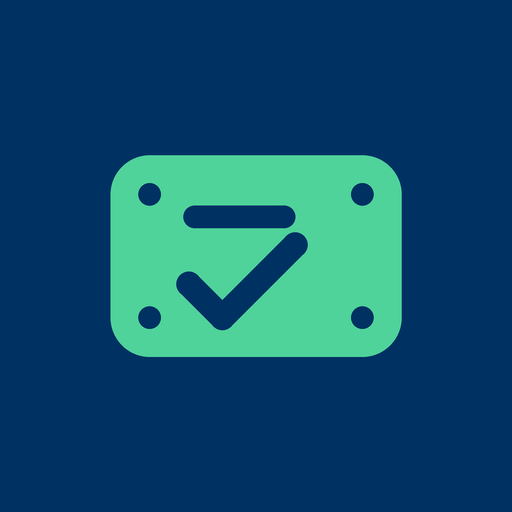
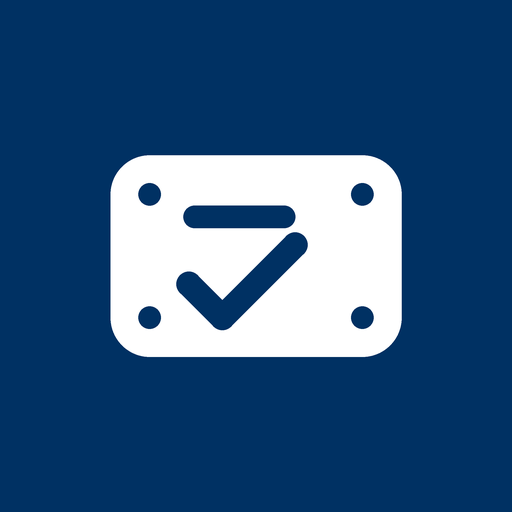
Add files via upload

Changed region(s): [[0.1875, 0.2812, 0.8125, 0.7188]]

diff --git a/index.html b/index.html
@@ -4,12 +4,12 @@
 <meta charset="utf-8">
 <meta name="viewport" content="width=device-width,initial-scale=1">
 <meta name="theme-color" content="#003163">
+<meta name="color-scheme" content="light">
 <link rel="manifest" href="manifest.webmanifest">
 <link rel="icon" href="icon-192.png">
 <title>Nameplate Tracker</title>
 <style>
-:root{--bg:#F2F5F8;--card:#fff;--ink:#0F1E2E;--mute:#55657A;--line:#E1E6EC;--line2:#C6CFD9;--head:#003163;--head2:#0B4A8A;--ok:#12804F;--okbg:#DFF3E8;--oktx:#0C5C38;--warn:#B37A00;--warnbg:#FFF0CC;--warntx:#6B4700;--bad:#B3361B;--badbg:#FDE4DE;--badtx:#8F2A14;--idle:#EEF1F4;--idletx:#46566A}
-@media (prefers-color-scheme:dark){:root{--bg:#0B141D;--card:#142230;--ink:#E8EEF4;--mute:#9DB0C3;--line:#243648;--line2:#35495E;--head:#003163;--head2:#0B4A8A;--okbg:#0F3D29;--oktx:#8FE0B8;--warnbg:#4A3500;--warntx:#FFD98A;--badbg:#4F1A0E;--badtx:#FFB9A8;--idle:#1E2E3E;--idletx:#B7C6D5}}
+:root{color-scheme:light;--bg:#F5F8FC;--card:#fff;--ink:#0B1F33;--mute:#55657A;--line:#E2E8F0;--line2:#C5D0DC;--head:#003163;--head2:#0B4A8A;--ok:#12804F;--okbg:#DFF3E8;--oktx:#0C5C38;--warn:#B37A00;--warnbg:#FFF0CC;--warntx:#6B4700;--bad:#B3361B;--badbg:#FDE4DE;--badtx:#8F2A14;--idle:#EEF1F4;--idletx:#46566A}
 *{box-sizing:border-box}
 body{margin:0;background:var(--bg);color:var(--ink);font:15px/1.4 Inter,system-ui,-apple-system,"Segoe UI",Roboto,sans-serif}
 header{position:sticky;top:0;z-index:5;background:var(--head);color:#fff;display:flex;align-items:center;gap:10px;padding:12px 14px}
@@ -21,10 +21,10 @@ header small{display:block;font-size:11px;letter-spacing:.12em;color:#A9C4DE;fon
 main{max-width:860px;margin:0 auto;padding:14px}
 .ov{background:var(--head);color:#fff;border-radius:14px;padding:14px 16px;margin-bottom:14px}
 .ov .r{display:flex;justify-content:space-between;align-items:baseline}.ov .r b{font-size:18px}
-.ov .bar{background:var(--head2);height:8px;margin:10px 0}.ov .bar i{background:#4FD39A}
+.ov .bar{background:var(--head2);height:8px;margin:10px 0}.ov .bar i{background:#fff}
 .ov .m{display:flex;gap:14px;flex-wrap:wrap;font-size:12px;color:#C9DAEA}
 .grid{display:grid;grid-template-columns:repeat(auto-fill,minmax(150px,1fr));gap:12px}
-.card{background:var(--card);border:1px solid var(--line);border-radius:14px;padding:14px;text-align:left;color:inherit;font:inherit;cursor:pointer;display:flex;flex-direction:column;gap:8px;min-height:104px}
+.card{background:var(--card);border:1px solid var(--line);box-shadow:0 2px 8px rgba(0,49,99,.06);border-radius:14px;padding:14px;text-align:left;color:inherit;font:inherit;cursor:pointer;display:flex;flex-direction:column;gap:8px;min-height:104px}
 .card .h{display:flex;justify-content:space-between;align-items:center;gap:6px}.card b{font-size:18px}.card span.c{color:var(--mute);font-size:13px}
 .card.add{border:2px dashed var(--line2);background:transparent;align-items:center;justify-content:center;font-weight:600;color:var(--mute);text-align:center}
 .tag{font-size:11px;font-weight:600;padding:3px 8px;border-radius:99px;white-space:nowrap;background:var(--idle);color:var(--idletx)}
@@ -32,7 +32,7 @@ main{max-width:860px;margin:0 auto;padding:14px}
 .bar{height:6px;background:var(--line);border-radius:3px;overflow:hidden}.bar i{display:block;height:100%;background:var(--ok)}
 .tools{display:flex;gap:8px;flex-wrap:wrap;margin:0 0 12px}
 .btn{display:inline-flex;align-items:center;justify-content:center;gap:6px;min-height:46px;background:var(--head);color:#fff;border:0;border-radius:12px;padding:10px 16px;font:inherit;font-weight:600;cursor:pointer;text-decoration:none}
-.btn.go{background:var(--ok)}
+.btn.go{background:var(--head);box-shadow:0 6px 16px rgba(0,49,99,.25)}
 .btn.ghost{background:var(--card);color:var(--ink);border:1px solid var(--line2)}
 input[type=text],input[type=search],input[type=number],textarea{width:100%;min-height:46px;padding:10px 14px;border:1px solid var(--line2);border-radius:12px;background:var(--card);color:var(--ink);font:inherit}
 #f_serial{font-family:ui-monospace,Menlo,Consolas,monospace;font-size:18px;border:2px solid var(--head)}
@@ -73,21 +73,44 @@ header .logo{width:34px;height:34px;flex:none}
 #splash .logo{animation:pop .7s cubic-bezier(.2,.8,.2,1) both}
 #splash b{animation:up .5s .35s both}#splash span{animation:up .5s .5s both}
 #splash i{width:120px;height:3px;border-radius:2px;background:rgba(255,255,255,.18);overflow:hidden;margin-top:14px;animation:up .4s .6s both}
-#splash i::after{content:"";display:block;width:40%;height:100%;background:#4FD39A;border-radius:2px;animation:load 1.1s .6s ease-in-out infinite}
+#splash i::after{content:"";display:block;width:40%;height:100%;background:#fff;border-radius:2px;animation:load 1.1s .6s ease-in-out infinite}
 main>*{animation:up .35s both}
 .grid .card{animation:up .35s both}
 .hero .mark{animation:pop .6s cubic-bezier(.2,.8,.2,1) both}
 .btn,.card,.row,.chip{transition:transform .12s,background-color .15s}
 .btn:active,.card:active,.row:active,.chip:active{transform:scale(.97)}
 .bar i{transition:width .6s ease}
+@keyframes spin{to{transform:rotate(360deg)}}
+@keyframes grow{from{transform:scaleX(0)}}
+@keyframes pulse{50%{opacity:.55}}
+@keyframes draw{to{stroke-dashoffset:0}}
+@keyframes fade{0%{opacity:0}15%,75%{opacity:1}100%{opacity:0}}
+.bar i{transform-origin:left;animation:grow .8s ease both}
+.row{animation:up .3s both}
+#pill.sync{animation:pulse 1.2s ease-in-out infinite}
+body.lock header{display:none}
+body.lock main{max-width:none;padding:0}
+.lock-top{background:var(--head);color:#fff;min-height:46vh;display:flex;flex-direction:column;align-items:center;justify-content:center;gap:10px;padding:32px 20px 78px;position:relative;overflow:hidden}
+.lock-top .logo{width:96px;height:96px;animation:pop .7s cubic-bezier(.2,.8,.2,1) both;position:relative;z-index:1}
+.lock-top h2{margin:0;font-size:28px;color:#fff;animation:up .5s .2s both;position:relative;z-index:1}
+.lock-top .tl{font-size:12px;letter-spacing:.16em;color:#B9CDE3;animation:up .5s .3s both;position:relative;z-index:1}
+.lock-top::before,.lock-top::after{content:"";position:absolute;border-radius:50%;border:1.5px dashed rgba(255,255,255,.16);width:520px;height:520px;top:-260px;right:-210px;animation:spin 40s linear infinite}
+.lock-top::after{top:auto;right:auto;bottom:-340px;left:-230px;width:640px;height:640px;animation-duration:60s;animation-direction:reverse}
+.lock-card{max-width:420px;margin:-52px auto 0;background:#fff;border:1px solid var(--line);border-radius:18px;padding:26px 22px;text-align:center;position:relative;box-shadow:0 14px 34px rgba(0,49,99,.16);animation:up .5s .25s both;width:calc(100% - 32px)}
+.lock-card h3{margin:0 0 6px;font-size:18px}
+.lock-card p{color:var(--mute);margin:0 0 18px}.lock-card .btn{width:100%}.lock-card small{display:block;color:var(--mute);margin-top:14px;font-size:12px}
+.lock-foot{text-align:center;color:var(--mute);font-size:12px;margin:20px 16px;animation:up .5s .4s both}
+#done{position:fixed;inset:0;z-index:15;background:rgba(255,255,255,.94);display:flex;flex-direction:column;align-items:center;justify-content:center;gap:12px;color:var(--head);font-weight:700;font-size:18px;animation:fade 1s both;pointer-events:none}
+#done svg{width:96px;height:96px;animation:pop .45s both}
+#done path{fill:none;stroke:#fff;stroke-width:6;stroke-linecap:round;stroke-linejoin:round;stroke-dasharray:60;stroke-dashoffset:60;animation:draw .4s .2s forwards}
 @media (prefers-reduced-motion:reduce){*{animation:none!important;transition:none!important}}
 #toast{position:fixed;left:50%;bottom:20px;transform:translateX(-50%);background:#111;color:#fff;padding:10px 16px;border-radius:10px;font-size:14px;opacity:0;pointer-events:none;transition:opacity .2s;max-width:90vw;z-index:9}
 #toast.on{opacity:.96}
 </style>
 </head>
 <body>
-<div id="splash"><svg class="logo" viewBox="0 0 64 64" aria-hidden="true"><rect x="6" y="14" width="52" height="36" rx="7" fill="#4FD39A"/><circle cx="13" cy="21" r="2" fill="#003163"/><circle cx="51" cy="21" r="2" fill="#003163"/><circle cx="13" cy="43" r="2" fill="#003163"/><circle cx="51" cy="43" r="2" fill="#003163"/><rect x="19" y="23" width="20" height="4" rx="2" fill="#003163"/><path d="M20 37l6 6 13-13" fill="none" stroke="#003163" stroke-width="4.5" stroke-linecap="round" stroke-linejoin="round"/></svg><b>Nameplate Tracker</b><span>TURBINE COMPONENT RECORDS</span><i></i></div>
-<header><button id="back" data-act="back" aria-label="Back">&#8249;</button><svg class="logo" viewBox="0 0 64 64" aria-hidden="true"><rect x="6" y="14" width="52" height="36" rx="7" fill="#4FD39A"/><circle cx="13" cy="21" r="2" fill="#003163"/><circle cx="51" cy="21" r="2" fill="#003163"/><circle cx="13" cy="43" r="2" fill="#003163"/><circle cx="51" cy="43" r="2" fill="#003163"/><rect x="19" y="23" width="20" height="4" rx="2" fill="#003163"/><path d="M20 37l6 6 13-13" fill="none" stroke="#003163" stroke-width="4.5" stroke-linecap="round" stroke-linejoin="round"/></svg><h1 id="title">Nameplate Tracker</h1><button id="pill" data-act="sync">…</button></header>
+<div id="splash"><svg class="logo" viewBox="0 0 64 64" aria-hidden="true"><rect x="6" y="14" width="52" height="36" rx="7" fill="#FFFFFF"/><circle cx="13" cy="21" r="2" fill="#003163"/><circle cx="51" cy="21" r="2" fill="#003163"/><circle cx="13" cy="43" r="2" fill="#003163"/><circle cx="51" cy="43" r="2" fill="#003163"/><rect x="19" y="23" width="20" height="4" rx="2" fill="#003163"/><path d="M20 37l6 6 13-13" fill="none" stroke="#003163" stroke-width="4.5" stroke-linecap="round" stroke-linejoin="round"/></svg><b>Nameplate Tracker</b><span>TURBINE COMPONENT RECORDS</span><i></i></div>
+<header><button id="back" data-act="back" aria-label="Back">&#8249;</button><svg class="logo" viewBox="0 0 64 64" aria-hidden="true"><rect x="6" y="14" width="52" height="36" rx="7" fill="#FFFFFF"/><circle cx="13" cy="21" r="2" fill="#003163"/><circle cx="51" cy="21" r="2" fill="#003163"/><circle cx="13" cy="43" r="2" fill="#003163"/><circle cx="51" cy="43" r="2" fill="#003163"/><rect x="19" y="23" width="20" height="4" rx="2" fill="#003163"/><path d="M20 37l6 6 13-13" fill="none" stroke="#003163" stroke-width="4.5" stroke-linecap="round" stroke-linejoin="round"/></svg><h1 id="title">Nameplate Tracker</h1><button id="pill" data-act="sync">…</button></header>
 <main id="app"></main>
 <div id="toast"></div>
 <script>
@@ -105,43 +128,124 @@ const ls=k=>{try{return JSON.parse(localStorage.getItem(k));}catch(e){return nul
 const lsSet=(k,v)=>{try{localStorage.setItem(k,JSON.stringify(v));}catch(e){}};
 
 let L=ls('np_local')||{clientId:'',folderId:'',email:'',name:''};   // this phone's connection + signed-in user
-let T=ls('np_tok');                                                  // Google access token
+let T=null;lsSet('np_tok',null);                                     // Google access token: kept in memory only, so every app open asks for sign-in
 let CFG=null;                                                        // project config (copy of the sheet's Config tab)
 let RECS={},ROWS={};                                                 // records + sheet row numbers, per WTG
 let Q=[];                                                            // saves not yet synced
 const S={view:{name:'home'},filter:'all',q:'',err:'',syncing:false,last:0,working:'',addArm:false,pos:null,entered:false};
 let F=null;const thumbCache=new Map();
-const LOGO='<svg class="logo" viewBox="0 0 64 64" aria-hidden="true"><rect x="6" y="14" width="52" height="36" rx="7" fill="#4FD39A"/><circle cx="13" cy="21" r="2" fill="#003163"/><circle cx="51" cy="21" r="2" fill="#003163"/><circle cx="13" cy="43" r="2" fill="#003163"/><circle cx="51" cy="43" r="2" fill="#003163"/><rect x="19" y="23" width="20" height="4" rx="2" fill="#003163"/><path d="M20 37l6 6 13-13" fill="none" stroke="#003163" stroke-width="4.5" stroke-linecap="round" stroke-linejoin="round"/></svg>';
+const LOGO='<svg class="logo" viewBox="0 0 64 64" aria-hidden="true"><rect x="6" y="14" width="52" height="36" rx="7" fill="#FFFFFF"/><circle cx="13" cy="21" r="2" fill="#003163"/><circle cx="51" cy="21" r="2" fill="#003163"/><circle cx="13" cy="43" r="2" fill="#003163"/><circle cx="51" cy="43" r="2" fill="#003163"/><rect x="19" y="23" width="20" height="4" rx="2" fill="#003163"/><path d="M20 37l6 6 13-13" fill="none" stroke="#003163" stroke-width="4.5" stroke-linecap="round" stroke-linejoin="round"/></svg>';
 const hero=(title,tag,body)=>'<div class="hero"><div class="mark">'+LOGO+'</div><h2>'+title+'</h2><div class="tl">'+tag+'</div>'+body+'</div>';
 
-const SAMPLE=`Tower | Tower section 1
-Tower | Tower section 2
-Tower | Tower section 3
-Tower | Service lift
-Nacelle | Generator | 2
-Nacelle | Main bearing
-Nacelle | Yaw drive 1
-Nacelle | Yaw drive 2
-Nacelle | Yaw drive 3
-Nacelle | Yaw bearing
-Nacelle | Hydraulic station
+const SAMPLE=`Nacelle | Nacelle Nameplate
 Nacelle | Nacelle control cabinet
-Hub | Hub casting
-Hub | Pitch motor 1
-Hub | Pitch motor 2
-Hub | Pitch motor 3
-Hub | Pitch bearing 1
-Hub | Pitch bearing 2
-Hub | Pitch bearing 3
-Hub | Pitch control cabinet
-Blades | Blade A | 2
-Blades | Blade B | 2
-Blades | Blade C | 2
-Electrical | Converter cabinet
-Electrical | Transformer | 2
-Electrical | Main control cabinet
-Electrical | Switchgear
-Electrical | UPS`;
+Nacelle | Nacelle control cabinet PLC
+Nacelle | Nacelle distribution cabinet
+Nacelle | Nacelle Junction box 1
+Nacelle | Nacelle Junction box 2
+Nacelle | Wind Vane
+Nacelle | Anemometer
+Nacelle | Aviation light 1
+Nacelle | Aviation light 2
+Nacelle | Cam counter
+Nacelle | Central Monitoring System - CMS
+Nacelle | Chain Hoist
+Nacelle | LiDAR Nameplate
+Nacelle | Yaw bearing lubrication pump
+Nacelle | Yaw Caliper 1
+Nacelle | Yaw Caliper 2
+Nacelle | Yaw Caliper 3
+Nacelle | Yaw Caliper 4
+Nacelle | Yaw Caliper 5
+Nacelle | Yaw Caliper 6
+Nacelle | Yaw Caliper 7
+Nacelle | Yaw Caliper 8
+Nacelle | Yaw Caliper 9
+Nacelle | Yaw Caliper 10
+Nacelle | Yaw Caliper 11
+Nacelle | Yaw Caliper 12
+Nacelle | Yaw Caliper 13
+Nacelle | Yaw Caliper 14
+Nacelle | Yaw Bearing
+Nacelle | Yaw Collector Ring
+Nacelle | Yaw Motor - Left 1
+Nacelle | Yaw Motor - Left 2
+Nacelle | Yaw Motor - Left 3
+Nacelle | Yaw Motor - Left 4
+Nacelle | Yaw Motor - Right 1
+Nacelle | Yaw Motor - Right 2
+Nacelle | Yaw Motor - Right 3
+Nacelle | Yaw Motor - Right 4
+Nacelle | Tower Clearance Device
+Drivetrain | Stator
+Drivetrain | Drive Train Nameplate
+Drivetrain | Gearbox Nameplate
+Drivetrain | Gearbox air radiator 1
+Drivetrain | Gearbox air radiator 2
+Drivetrain | Gearbox air radiator fan 1
+Drivetrain | Gearbox air radiator fan 2
+Drivetrain | Gearbox oil circulation pump 1
+Drivetrain | Gearbox oil circulation pump 2
+Drivetrain | Generator Nameplate
+Drivetrain | Generator Stator Nameplate
+Drivetrain | Hydraulic Rotor lock 1
+Drivetrain | Hydraulic Rotor lock 2
+Drivetrain | Hydraulic Station
+Drivetrain | Main bearing grease lubrication pump
+Tower | Tower Section (S1)
+Tower | Tower Section (S2)
+Tower | Tower Section (S3)
+Tower | Tower Section (S4)
+Tower | Tower Section (S5)
+Tower | Dehumidifier
+Tower | Fire Module Subsystem
+Tower | Isolation Transformer
+Tower | Lights UPS
+Tower | Wind Turbine Nameplate
+Hub | Pitch 1 Control Cabinet
+Hub | Pitch 2 Control Cabinet
+Hub | Pitch 3 Control Cabinet
+Hub | Pitch 1 Motor
+Hub | Pitch 2 Motor
+Hub | Pitch 3 Motor
+Hub | Pitch Bearing 1
+Hub | Pitch Bearing 2
+Hub | Pitch Bearing 3
+Hub | Pitch Control Slipring
+Hub | Pitch Lubrication system (Bearings)
+Hub | Pitch Lubrication system (Gears)
+Hub | Rotor
+Hub | Pitch Reducer-01
+Hub | Pitch Reducer-02
+Hub | Pitch Reducer-03
+Blade | Blade 1
+Blade | Blade 2
+Blade | Blade 3
+Service Lift | Elevator safe lock
+Service Lift | Service Lift
+Service Lift | Service Lift Motor
+Service Lift | Service Lift Suspension Beam
+Converter system | Air radiator 1
+Converter system | Air radiator 2
+Converter system | Air radiator fans 1
+Converter system | Air radiator fans 2
+Converter system | Air radiator fans 3
+Converter system | Air radiator fans 4
+Converter system | Air radiator fans 5
+Converter system | Air radiator fans 6
+Converter system | Converter Cabinet
+Converter system | Converter Cooling Unit
+Converter system | Coolant Pump
+Converter system | Resistance Box 1
+Converter system | Resistance box 2
+Main control | Main Control Cabinet Nameplate
+Main control | Main Control Cabinet PLC
+GSU | GSU HV side
+GSU | GSU LV side
+GSU | GSU Relay
+GSU | RMU-01
+GSU | RMU-02
+GSU | RMU-03`;
 
 function toast(m,ms=2800){const t=$('#toast');t.textContent=m;t.classList.add('on');clearTimeout(toast.t);toast.t=setTimeout(()=>t.classList.remove('on'),ms);}
 
@@ -184,13 +288,13 @@ const tokenOk=()=>!!(T&&T.token&&T.exp>Date.now());
 function loadScript(src){return new Promise((res,rej)=>{const s=document.createElement('script');s.src=src;s.onload=()=>res();s.onerror=()=>{s.remove();rej(new Error('load'));};document.head.appendChild(s);});}
 async function loadGis(){if(window.google&&google.accounts&&google.accounts.oauth2)return;try{await loadScript('https://accounts.google.com/gsi/client');}catch(e){throw new Error('Google sign-in could not load. Check the internet connection.');}}
 async function loadXlsx(){if(window.XLSX)return;try{await loadScript(XLSX_URL);}catch(e){throw new Error('The Excel tool is not on this phone yet. Open the app once with internet.');}}
-async function requestToken(){
+async function requestToken(prompt){
   await loadGis();
   return new Promise((res,rej)=>{
     const tc=google.accounts.oauth2.initTokenClient({client_id:L.clientId,scope:SCOPE,login_hint:L.email||undefined,
-      callback:r=>{if(r.error){rej(new Error('Sign-in failed: '+r.error));return;}T={token:r.access_token,exp:Date.now()+((+r.expires_in||3600)-90)*1000};lsSet('np_tok',T);res();},
+      callback:r=>{if(r.error){rej(new Error('Sign-in failed: '+r.error));return;}T={token:r.access_token,exp:Date.now()+((+r.expires_in||3600)-90)*1000};res();},
       error_callback:e=>rej(new Error((e&&(e.message||e.type))||'Sign-in was cancelled'))});
-    tc.requestAccessToken({prompt:''});
+    tc.requestAccessToken({prompt:prompt||''});
   });
 }
 async function api(url,o={}){
@@ -380,7 +484,7 @@ async function exportLocal(ws,filename){
 function pill(){
   const p=$('#pill'),n=Q.length;p.className='';
   if(!L.clientId||!L.folderId){p.textContent='Not connected';return;}
-  if(S.syncing){p.className='wait';p.textContent='Syncing…';return;}
+  if(S.syncing){p.className='wait sync';p.textContent='Syncing…';return;}
   if(navigator.onLine===false){p.className=n?'wait':'';p.textContent='Offline'+(n?' · '+n+' waiting':'');return;}
   if(!tokenOk()){p.className='wait';p.textContent=(n?n+' waiting · ':'')+'Tap to sign in';return;}
   if(n){p.className='wait';p.textContent=n+' waiting · tap to sync';return;}
@@ -395,6 +499,7 @@ function render(force){
   const v=S.view.name;
   $('#back').style.display=(v==='home'||v==='welcome'||(v==='connect'&&(!L.clientId||!L.folderId)))?'none':'block';
   $('#pill').style.display=v==='welcome'?'none':'';
+  document.body.classList.toggle('lock',v==='welcome');
   const tt=$('#title');
   if(v==='home')tt.innerHTML=comps().length?'<small>NAMEPLATE TRACKER</small>'+esc(projName()==='Nameplate Tracker'?'All turbines':projName()):'Nameplate Tracker';
   else tt.textContent=v==='welcome'?'Nameplate Tracker':v==='setup'?'Project setup':v==='connect'?'Connect to Google Drive':v==='issues'?'Issues':S.view.w;
@@ -405,25 +510,26 @@ function render(force){
   app.dataset.v=v;app.dataset.w=S.view.w||'';
   ({home:vHome,wtg:vWtg,form:vForm,setup:vSetup,connect:vConnect,issues:vIssues,welcome:vWelcome})[v]();
 }
-function go(view){S.view=view;S.addArm=false;render(true);window.scrollTo(0,0);}
+function go(view){S.view=view;S.addArm=false;S.fresh=true;render(true);window.scrollTo(0,0);}
 
 function vWelcome(){
   const known=!!L.email,off=navigator.onLine===false,who=esc(L.name||L.email);
   const tag=esc(CFG&&CFG.name?CFG.name.toUpperCase():'TURBINE COMPONENT RECORDS');
   let body;
-  if(known&&off)body='<p>Signed in as <b>'+who+'</b>.<br>No internet right now, so the app works offline and syncs later.</p><button class="btn go" data-act="enter">Continue offline</button>';
-  else if(known&&tokenOk())body='<p>Welcome back, <b>'+who+'</b>.</p><button class="btn go" data-act="enter">Continue</button><small><a href="#" data-act="switch">Sign in with a different account</a></small>';
-  else if(off)body='<p>The first sign-in needs internet. Connect and try again.</p><button class="btn go" data-act="signin">Sign in with Google</button>';
-  else body='<p>Nameplate photos and serial numbers for every turbine. Works offline and syncs to your team\'s Google Drive.</p><button class="btn go" data-act="signin">Sign in with Google</button>'+(known?'<small>Last used by '+esc(L.email)+' · <a href="#" data-act="switch">different account</a></small>':'<small>Use the Google account your team shared the project with.</small>');
-  app.innerHTML=hero('Nameplate Tracker',tag,body);
+  if(known&&off)body='<h3>Offline</h3><p>No internet, so Google sign-in is not possible right now. You can keep working as <b>'+who+'</b>; everything syncs after the next sign-in.</p><button class="btn go" data-act="enter">Continue offline</button>';
+  else if(off)body='<h3>Sign in</h3><p>The first sign-in needs internet. Connect and try again.</p><button class="btn go" data-act="signin">Sign in with Google</button>';
+  else body='<h3>Sign in</h3><p>Use the Google account your team shared the project with.</p><button class="btn go" data-act="signin">Sign in with Google</button>'+(known?'<small>Last used by '+esc(L.email)+'</small>':'');
+  app.innerHTML='<div class="lock-top">'+LOGO+'<h2>Nameplate Tracker</h2><div class="tl">'+tag+'</div></div><div class="lock-card">'+body+'</div><div class="lock-foot">Secure sign-in with Google · Data stays in your team\'s Drive</div>';
 }
+function flashSaved(){const d=document.createElement('div');d.id='done';d.innerHTML='<svg viewBox="0 0 64 64" aria-hidden="true"><circle cx="32" cy="32" r="30" fill="#003163"/><path d="M19 33l9 9 17-19"/></svg>Saved';document.body.appendChild(d);setTimeout(()=>d.remove(),1000);}
+function countUp(el,to,all){if(!el)return;const t0=performance.now(),dur=700;(function f(now){const k=Math.min(1,(now-t0)/dur);el.textContent=Math.round(to*k).toLocaleString()+' / '+all.toLocaleString();if(k<1)requestAnimationFrame(f);})(t0);}
 async function signIn(fresh){
   if(navigator.onLine===false){toast('Sign-in needs internet');return;}
   if(fresh){L.email='';L.name='';lsSet('np_local',L);if(CFG)CFG.checked=false;}
-  try{await requestToken();}catch(e){toast(e.message,4500);return;}
+  try{await requestToken('select_account');}catch(e){toast(e.message,4500);return;}
   S.entered=true;go({name:'home'});sync(true);
 }
-function signOut(){T=null;lsSet('np_tok',null);S.entered=false;go({name:'welcome'});}
+function signOut(){T=null;S.entered=false;go({name:'welcome'});}
 function vConnect(){
   app.innerHTML=hero('Nameplate Tracker','CONNECT THIS PHONE','<p style="margin:0">One-time setup. If a teammate sent you an invite link, open that link instead.</p>')+'<div class="note" style="margin-top:14px"><b>One-time connection for this phone.</b> Paste the Google OAuth Client ID and the link of the shared Drive folder. If a teammate sent you an invite link, open that link instead and these fill in by themselves.</div>'+
     '<label class="f" for="c_id">Google OAuth Client ID</label><input type="text" id="c_id" autocomplete="off" placeholder="xxxxxxxx.apps.googleusercontent.com" value="'+esc(L.clientId)+'">'+
@@ -441,9 +547,9 @@ function vHome(){
     app.innerHTML='<div class="note">'+h+'</div><p class="sub" style="margin-top:12px"><a href="#" data-act="connect">Change connection</a></p>';return;
   }
   const total=comps().length,ws=wtgIds();let done=0,iss=0;
-  const cards=ws.map(w=>{const st=stats(w);done+=st.done;iss+=st.issue;
+  const cards=ws.map((w,i)=>{const st=stats(w);done+=st.done;iss+=st.issue;
     const tag=st.issue?['issue',st.issue+' issue'+(st.issue>1?'s':'')]:st.done===total?['done','Complete']:(st.done||st.partial)?['partial','In progress']:['','Not started'];
-    return '<button class="card" data-act="wtg" data-w="'+esc(w)+'"><span class="h"><b>'+esc(w)+'</b><span class="tag '+tag[0]+'">'+tag[1]+'</span></span><span class="c">'+st.done+' / '+total+' done</span><span class="bar"><i style="width:'+(100*st.done/total)+'%"></i></span></button>';}).join('');
+    return '<button class="card" style="animation-delay:'+Math.min(i,24)*30+'ms" data-act="wtg" data-w="'+esc(w)+'"><span class="h"><b>'+esc(w)+'</b><span class="tag '+tag[0]+'">'+tag[1]+'</span></span><span class="c">'+st.done+' / '+total+' done</span><span class="bar"><i style="width:'+(100*st.done/total)+'%"></i></span></button>';}).join('');
   const all=total*ws.length,next=(CFG.prefix||'WTG')+String(ws.length+1).padStart(2,'0');
   app.innerHTML=(S.err?'<div class="alert">Last sync problem: '+esc(S.err)+'</div>':'')+
     '<div class="ov"><div class="r"><span>Overall progress</span><b>'+done.toLocaleString()+' / '+all.toLocaleString()+'</b></div><div class="bar"><i style="width:'+(100*done/all)+'%"></i></div>'+
@@ -452,6 +558,7 @@ function vHome(){
     (CFG.sheetId?'<a class="btn ghost" target="_blank" rel="noopener" href="https://docs.google.com/spreadsheets/d/'+esc(CFG.sheetId)+'">Open sheet</a>':'')+
     '<button class="btn ghost" data-act="invite">Invite link</button><button class="btn ghost" data-act="setup">Setup</button><button class="btn ghost" data-act="signout">Sign out</button></div>'+
     '<div class="grid">'+cards+'<button class="card add" data-act="addwtg">'+(S.addArm?'Tap again to add '+esc(next):'+ Add turbine')+'</button></div>';
+  if(S.fresh){S.fresh=false;countUp($('.ov .r b'),done,all);}
 }
 function vWtg(){
   const chips=[['all','All'],['pending','Pending'],['partial','Partial'],['done','Done'],['issue','Issues']];
@@ -544,18 +651,19 @@ async function saveForm(){
   if(j){j.rec=rec;j.blobs=F.blobs;j.done=[];}
   else{j={id:Date.now()+'-'+Math.random().toString(36).slice(2,8),wtg:w,comp:c,rec,blobs:F.blobs,done:[],busy:false};Q.push(j);}
   await qPut(j);
+  if(idb)flashSaved();
   toast(idb?'Saved on this phone':'Saved, but this browser is not keeping data on the device. Stay online and sync now.',idb?2200:6000);
   go({name:'wtg',w});sync(false);
 }
 function vSetup(){
   const cfg=CFG||{};
-  app.innerHTML='<label class="f" for="s_name">Project name</label><input type="text" id="s_name" maxlength="40" value="'+esc(cfg.name||'')+'" placeholder="Infinity Project">'+
+  app.innerHTML='<label class="f" for="s_name">Project name</label><input type="text" id="s_name" maxlength="40" value="'+esc(cfg.name||'Infinity Project')+'" placeholder="Infinity Project">'+
     '<label class="f" for="s_prefix">Turbine prefix</label><input type="text" id="s_prefix" value="'+esc(cfg.prefix||'WTG')+'">'+
     '<label class="f" for="s_count">Number of turbines</label><input type="number" id="s_count" min="1" max="200" value="'+esc(cfg.count||27)+'">'+
     '<label class="f" for="s_list">Component list: one per line, as <b>Section | Component | photos required</b></label>'+
-    '<textarea id="s_list" spellcheck="false">'+esc(comps().map(c=>c.s+' | '+c.n+(need(c)>1?' | '+need(c):'')).join('\n'))+'</textarea>'+
+    '<textarea id="s_list" spellcheck="false">'+esc(comps().length?comps().map(c=>c.s+' | '+c.n+(need(c)>1?' | '+need(c):'')).join('\n'):SAMPLE)+'</textarea>'+
     '<p class="sub">Paste straight from Excel (two or three columns) or type it. The photo number is optional; without it one photo is required. Saving needs internet. Renaming a component later detaches the data already saved for it.</p>'+
-    '<div class="tools"><button class="btn" data-act="savecfg">Save project to Drive</button><button class="btn ghost" data-act="sample">Load sample list</button><button class="btn ghost" data-act="connect">Change connection</button></div>';
+    '<div class="tools"><button class="btn" data-act="savecfg">Save project to Drive</button><button class="btn ghost" data-act="sample">Load master list (109 items)</button><button class="btn ghost" data-act="connect">Change connection</button></div>';
 }
 function saveCfg(){
   const name=$('#s_name').value.trim().slice(0,40);
@@ -601,7 +709,6 @@ document.addEventListener('click',e=>{
   else if(a==='sync')sync(true);
   else if(a==='enter'){S.entered=true;go({name:'home'});sync(false);}
   else if(a==='signin')signIn(false);
-  else if(a==='switch'){e.preventDefault();signIn(true);}
   else if(a==='signout')signOut();
   else if(a==='wtg'){S.q='';S.filter='all';go({name:'wtg',w:b.dataset.w});}
   else if(a==='open')go({name:'form',w:b.dataset.w,c:b.dataset.c,from:S.view.name});
@@ -622,6 +729,12 @@ document.addEventListener('click',e=>{
 });
 window.addEventListener('online',()=>{pill();sync(false);});
 window.addEventListener('offline',pill);
+let hiddenAt=0;
+document.addEventListener('visibilitychange',()=>{
+  if(document.visibilityState==='hidden'){hiddenAt=Date.now();return;}
+  const v=S.view.name;
+  if(hiddenAt&&Date.now()-hiddenAt>15*60000&&S.entered&&v!=='form'&&v!=='setup'){T=null;S.entered=false;go({name:'welcome'});}
+});
 setInterval(()=>{const v=S.view.name;if(document.visibilityState==='visible'&&(Q.length||(v!=='form'&&v!=='setup'&&v!=='connect')))sync(false);else pill();},60000);
 
 /* ---------- start ---------- */

diff --git a/sw.js b/sw.js
@@ -1,5 +1,5 @@
 // Keeps the app itself on the phone so it opens with no internet.
-const CACHE = 'nameplate-v5';
+const CACHE = 'nameplate-v6';
 const SHELL = ['./', 'index.html', 'manifest.webmanifest', 'icon-192.png', 'icon-512.png'];
 // Excel tool used for "Export Excel"; saved on the phone so export also works offline.
 const XLSX_URL = 'https://cdnjs.cloudflare.com/ajax/libs/xlsx/0.18.5/xlsx.full.min.js';
